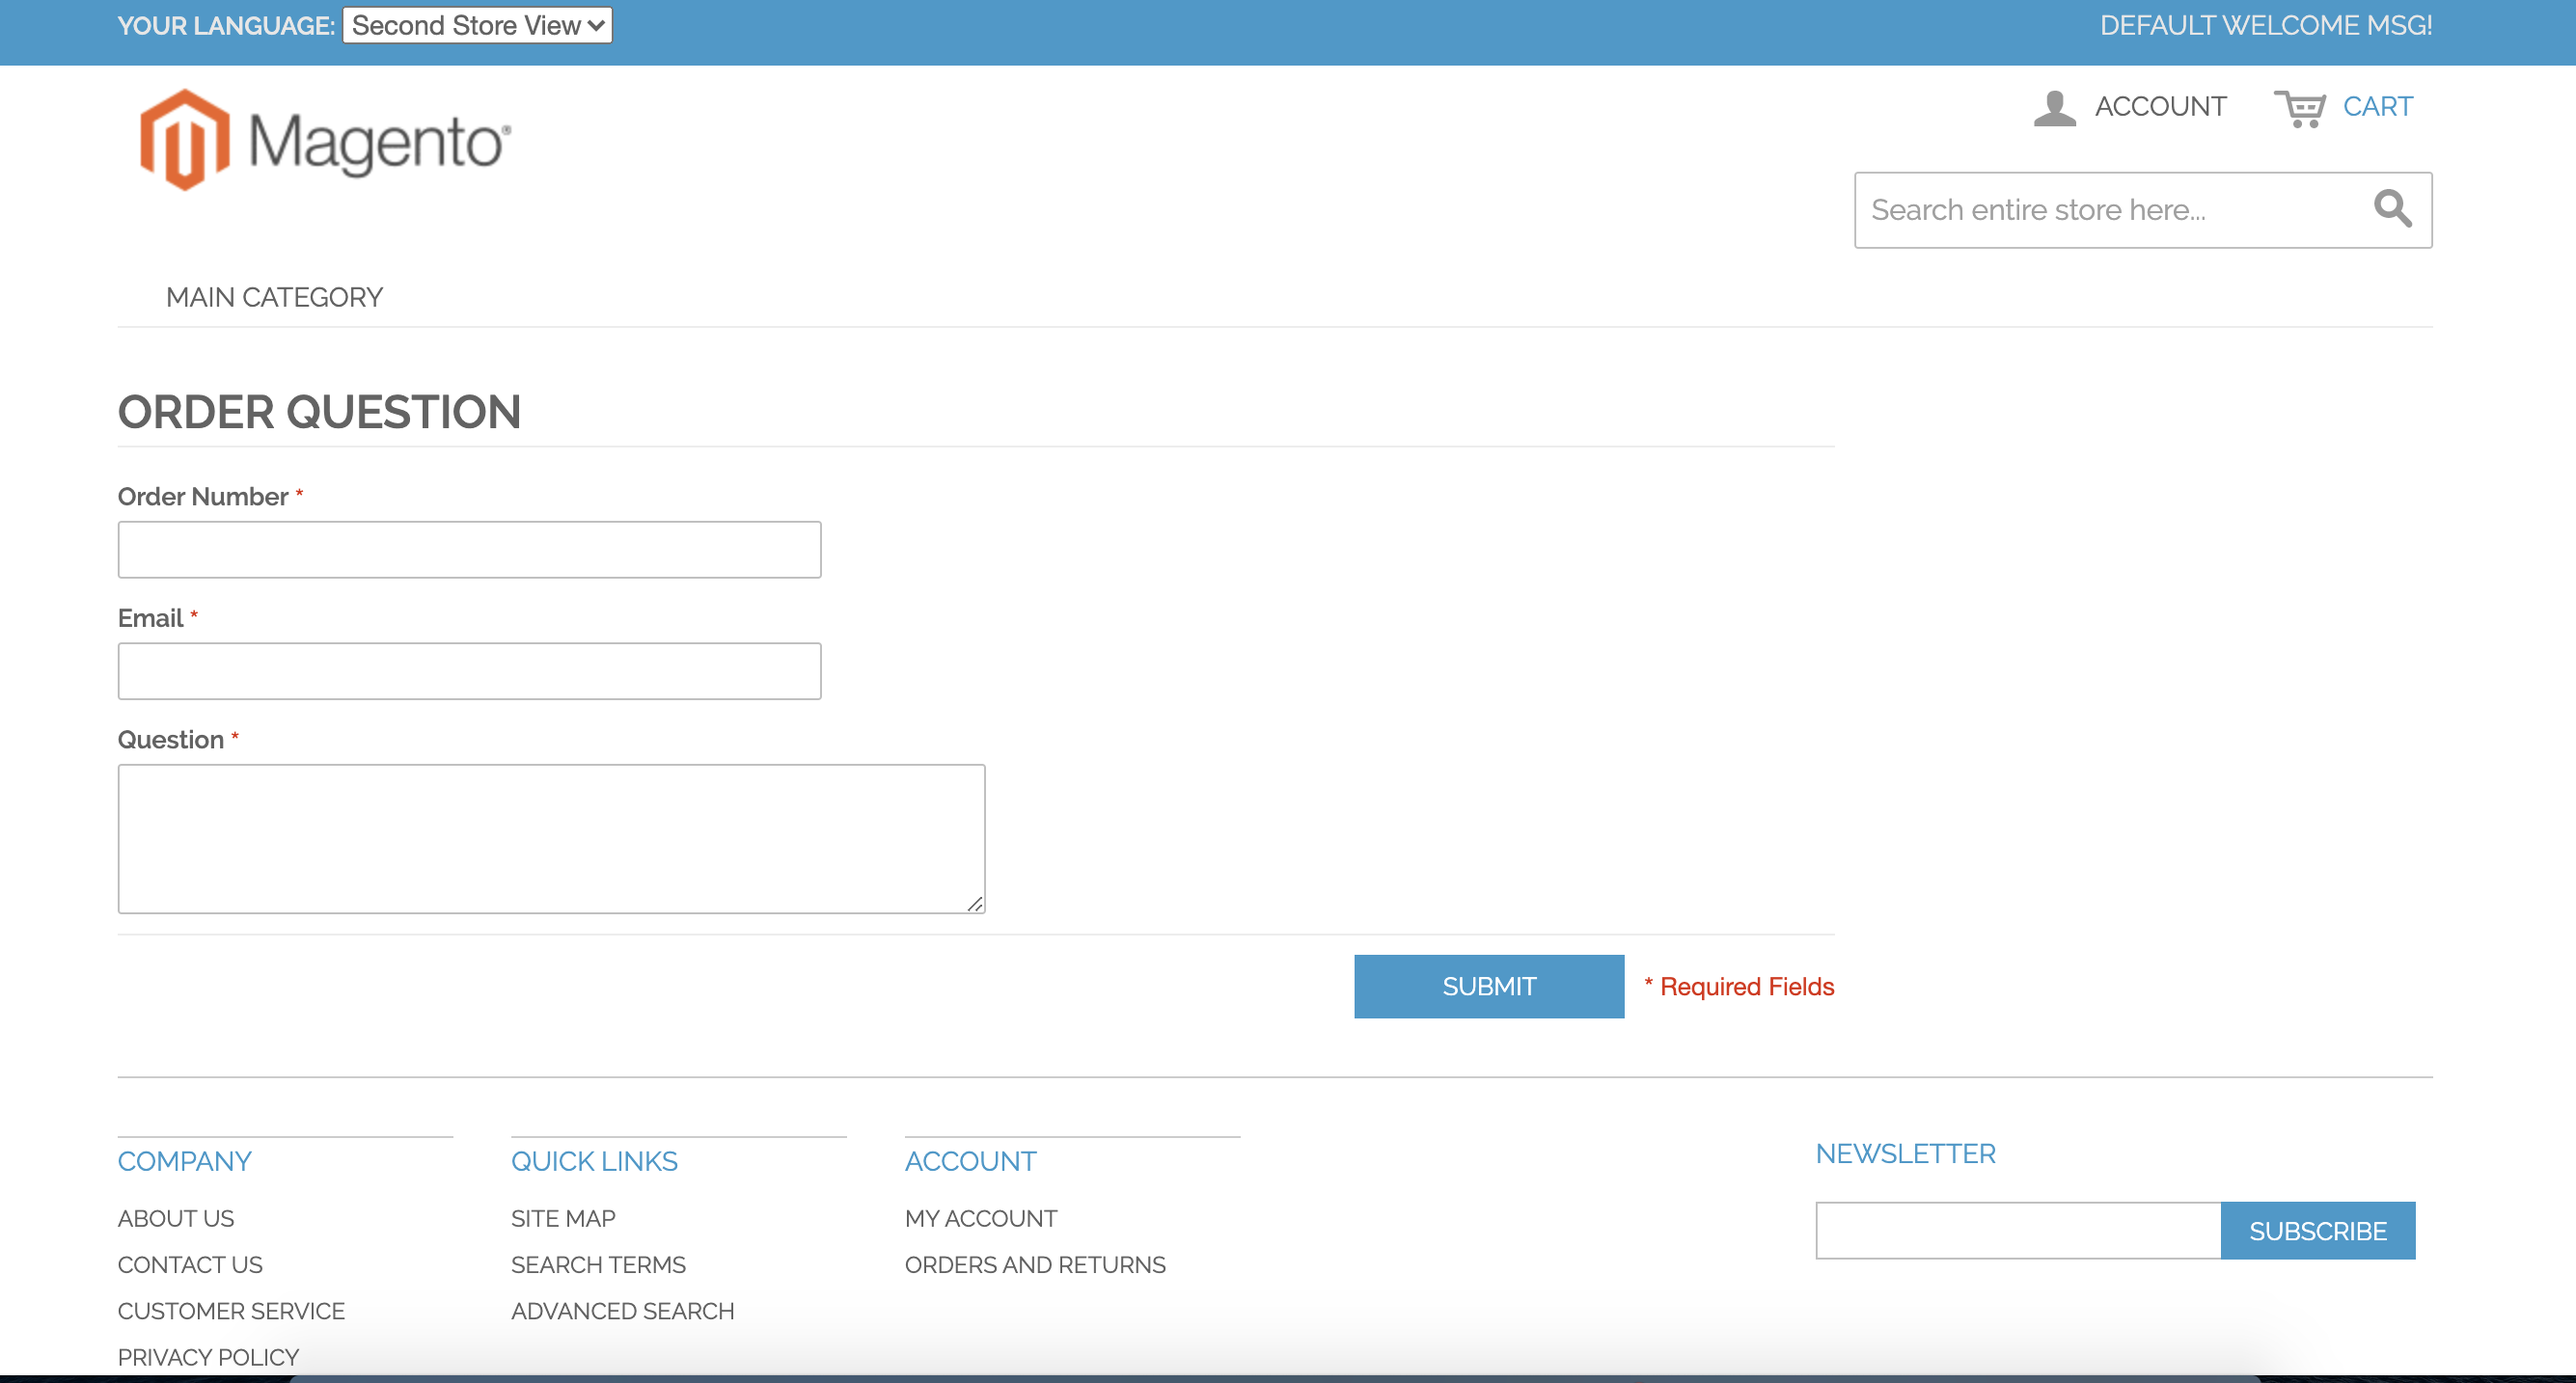
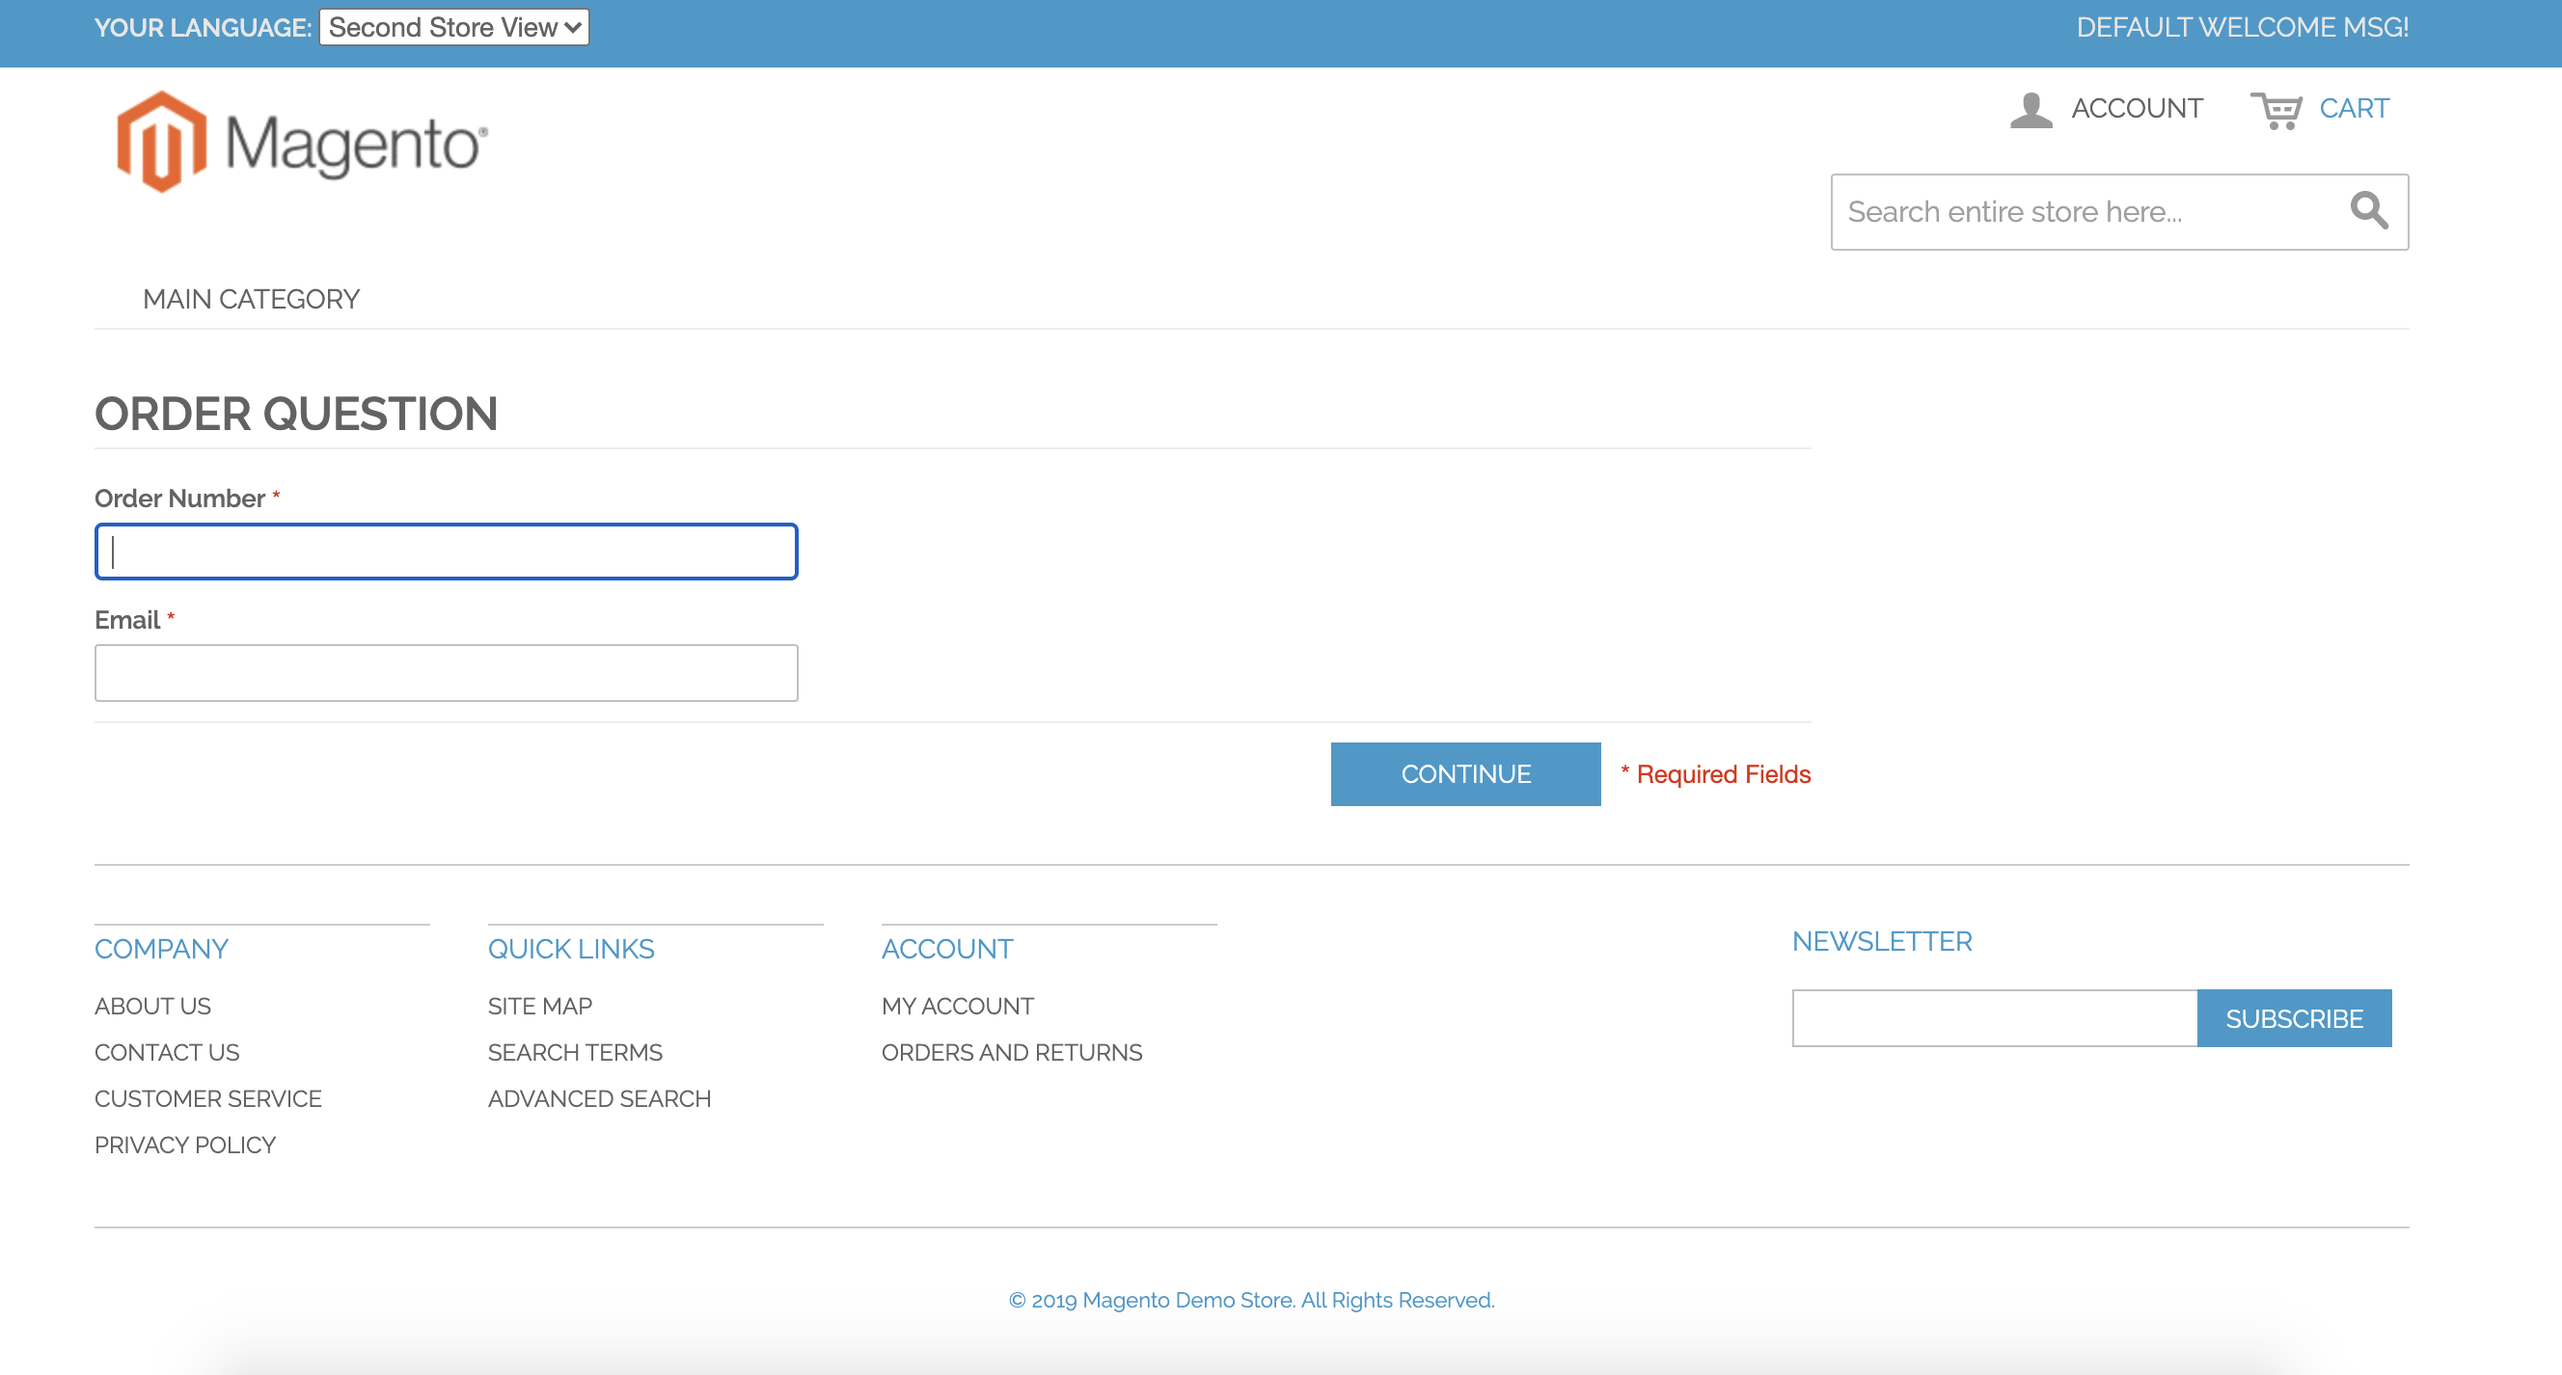
fix step 2

diff --git a/app/code/local/Kruzhalin/OrderQuestion/controllers/IndexController.php b/app/code/local/Kruzhalin/OrderQuestion/controllers/IndexController.php
@@ -28,14 +28,39 @@ class Kruzhalin_OrderQuestion_IndexController extends Mage_Core_Controller_Front
             ->addAttributeTofilter('increment_id', $request->getPost('order_number'))
             ->addAttributeTofilter('customer_email', $request->getPost('email'));
         /** @var Mage_Sales_Model_Order $order */
-        $order      = $collection->getFirstItem();
+        $order = $collection->getFirstItem();
 
+        if ($order && $order->getId()) {
+            Mage::register('current_order', $order);
+            $this->loadLayout();
+            $this->renderLayout();
+
+        } else {
+            $this->_getSession()->addError(
+                $this->__('Order ID or Email is invalid. Please check fields.')
+            );
+            $this->_redirect('*/*/');
+            return;
+        }
+    }
+
+    public function submitAction()
+    {
+        if (!$this->_validateFormKey()) {
+            $this->_getSession()->addError(
+                Mage::helper('adminhtml')->__('Invalid Form Key. Please refresh the page.')
+            );
+            $this->_redirect('*/*/');
+            return;
+        }
+        $request = $this->getRequest();
+
+        $order = Mage::getModel('sales/order')->load($request->getPost('order_id'));
         if ($order && $order->getId()) {
             $questionData = array(
                 'order_id' => $order->getId(),
                 'question' => Mage::helper('orderquestion')->escapeHtml($request->getPost('question')),
                 'store_id' => $order->getStoreId()
-
             );
 
             Mage::getModel('orderquestion/question')
@@ -49,11 +74,12 @@ class Kruzhalin_OrderQuestion_IndexController extends Mage_Core_Controller_Front
             return;
         } else {
             $this->_getSession()->addError(
-                $this->__('Order ID or Email is invalid. Please check fields.')
+                $this->__('An error occurred while submitting quesiton.')
             );
             $this->_redirect('*/*/');
             return;
         }
+
     }
 
     /**

diff --git a/app/code/local/Kruzhalin/OrderQuestion/Block/Form2.php b/app/code/local/Kruzhalin/OrderQuestion/Block/Form2.php
@@ -1,0 +1,36 @@
+<?php
+
+/**
+ * Class Kruzhalin_OrderQuestion_Block_Form2
+ */
+class Kruzhalin_OrderQuestion_Block_Form2 extends Mage_Core_Block_Template
+{
+    /**
+     * @return string
+     */
+    public function getFormAction()
+    {
+        return $this->getUrl('*/*/submit');
+    }
+
+    /**
+     * @return bool|Mage_Sales_Model_Order
+     */
+    public function getOrder()
+    {
+        if ($order = Mage::registry('current_order')) {
+            return $order;
+        }
+        return false;
+    }
+
+    /**
+     * @return array
+     */
+    public function getOrderItems(){
+        if(!$this->getOrder()){
+            return array();
+        }
+        return $this->getOrder()->getAllVisibleItems();
+    }
+}

diff --git a/README.md b/README.md
@@ -1,16 +1,25 @@
-URL on Frontend:  magento.localhost/orderquestion/
+URL on Frontend:  http://magento.localhost/orderquestion/
+![frontend](https://github.com/kruzhalin/m1_orderQuestion/blob/master/frontend.png?raw=true "admin panel")
 
-Admin Panel:  Sales -> Order Questions
+
+------------
 
 
-Task Description 
+Admin Panel:  *Sales -> Order Questions*
+![admin panel](https://github.com/kruzhalin/m1_orderQuestion/blob/master/admin.png?raw=true "admin panel")
 
-Find here attached the user case we want to develop:
+------------
 
-We want you to build a customer's page in which customers can ask questions about their order.
 
-Customers should fill in the order number and email, in which after validation the customer will see their order products data displayed.
+**Task Description:**
 
-In that page, the customer will be able to write a question and be able to send it, which should be saved in a grid and displayed in a section in Magneto (saved in a separated table and displayed in admin area).
+> Find here attached the user case we want to develop:
 
-Lastly by a cronjob, we are sending new questions to a manager (this email should be configured per store in the admin area). The manager should receive a notification that a new question has been created.
+> We want you to build a customer's page in which customers can ask questions about their order.
+
+> Customers should fill in the order number and email, in which after validation the customer will see their order products data displayed.
+
+> In that page, the customer will be able to write a question and be able to send it, which should be saved in a grid and displayed in a section in Magneto (saved in a separated table and displayed in admin area).
+
+> Lastly by a cronjob, we are sending new questions to a manager (this email should be configured per store in the admin area). The manager should receive a notification that a new question has been created.
+    
